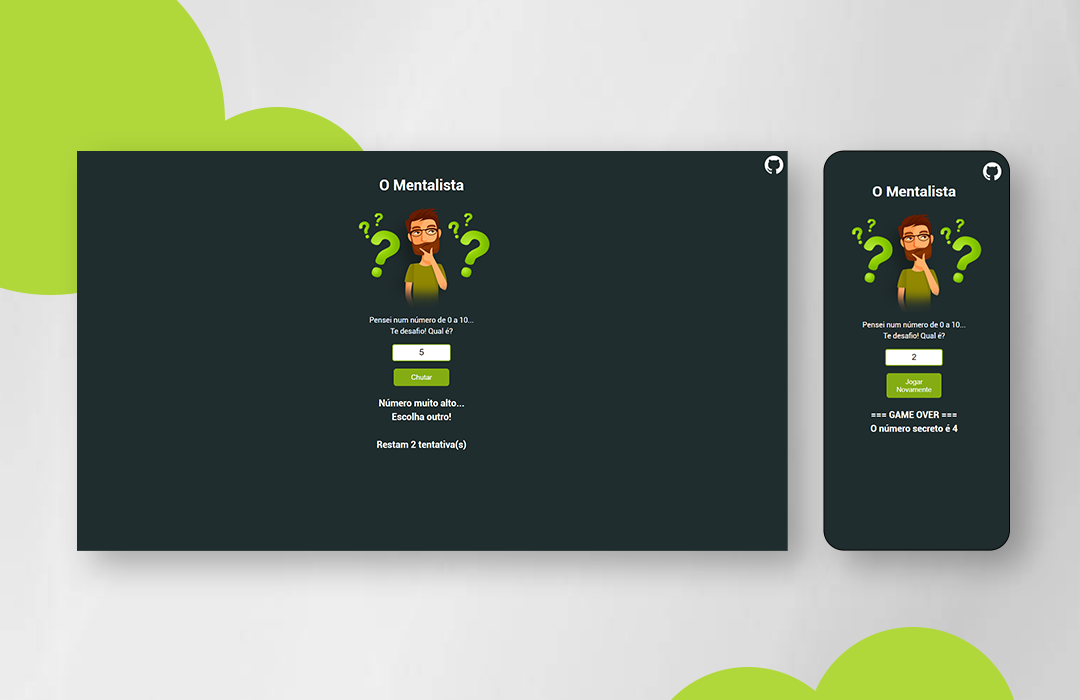
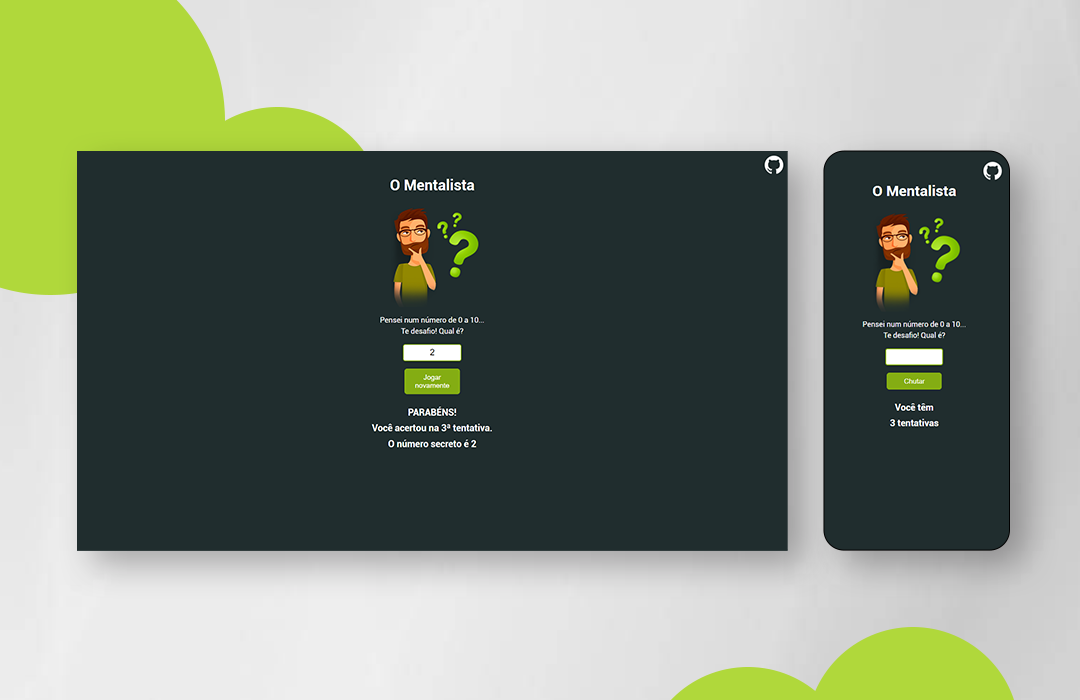
Update 2.0

Changed region(s): [[0.3361, 0.24, 0.4583, 0.66], [0.7944, 0.27, 0.9167, 0.63]]

diff --git a/app.js b/app.js
@@ -25,16 +25,16 @@ function Chutar() {
         btC.style.display = 'none';
         resultado.innerHTML = `=== GAME OVER ===<br>O número secreto é ${nSecret}`;
     } else  if(chute == nSecret) {
-        resultado.innerHTML = `PARABÉNS!<br><br>Você acertou! em ${qtd} tentativa(s)<br>O número secreto é ${nSecret}`;
+        resultado.innerHTML = `PARABÉNS!<br>Você acertou na ${qtd}ª tentativa.<br>O número secreto é ${nSecret}`;
         btJN.style.display = 'inline-block';
         btC.style.display = 'none';
     } else if (chute >10 || chute <0) {
         alert(`Digite um número entre 0 e 10. Restam ${3-qtd} tentativa(s)`);
     } else if (chute > nSecret){
-        resultado.innerHTML = `Número muito alto...<br>Escolha outro!<br><br>Restam ${3-qtd} tentativa(s)`;
+        resultado.innerHTML = `Número muito alto...<br>Escolha outro!<br>Restam ${3-qtd} tentativa(s)`;
         chute.value = '' // APAGA O VALOR DIGITADO
     } else if(chute < nSecret){
-        resultado.innerHTML = `Número muito baixo...<br>Escolha outro!<br><br>Restam ${3-qtd} tentativa(s)`;    
+        resultado.innerHTML = `Número muito baixo...<br>Escolha outro!<br>Restam ${3-qtd} tentativa(s)`;    
     } 
     
 } while(chute =! nSecret && qtd <3);

diff --git a/style.css b/style.css
@@ -10,7 +10,7 @@ body {
   background-size: cover;
   background-position: center bottom;
   background-repeat: no-repeat;
-  width: 97vw;
+  width: 100vw;
   height: 80vh;
 }
 
@@ -98,7 +98,7 @@ button:active {
   color: #ffffff;
   text-align: center;
   margin-top: 17px;
-  line-height: 1.5;
+  line-height: 1.7;
   /* text-shadow: 3px 4px 8px #000; */
 }
 /*# sourceMappingURL=style.css.map */

diff --git a/style.scss b/style.scss
@@ -25,7 +25,7 @@ body {
     background-size: cover;
     background-position: center bottom;
     background-repeat: no-repeat;
-    width: 97vw;
+    width: 100vw;
     height: 80vh;
   }
 
@@ -105,6 +105,6 @@ body {
     color: #ffffff;
     text-align: center;
     margin-top: 17px;
-    line-height: 1.5;
+    line-height: 1.7;
     /* text-shadow: 3px 4px 8px #000; */
   }

diff --git a/index.html b/index.html
@@ -24,7 +24,7 @@
 
         <input type="number" id="valor" /><br>
         <button type="submit" onclick="Chutar()" id="btC">Chutar</button>
-        <button type="submit" onclick="Jogar()" id="btJN">Jogar Novamente</button>
+        <button type="submit" onclick="Jogar()" id="btJN">Jogar novamente</button>
         <h2 class="resultado" id="resultado"></h2>
 
     </div>

diff --git a/README.md b/README.md
@@ -13,7 +13,7 @@
 </h3>
 
 <h4 align = "center">
-	versão 1.9 ✅
+	versão 2.0 ✅
 </h4>
 <br>
 <h3 align = "center">
